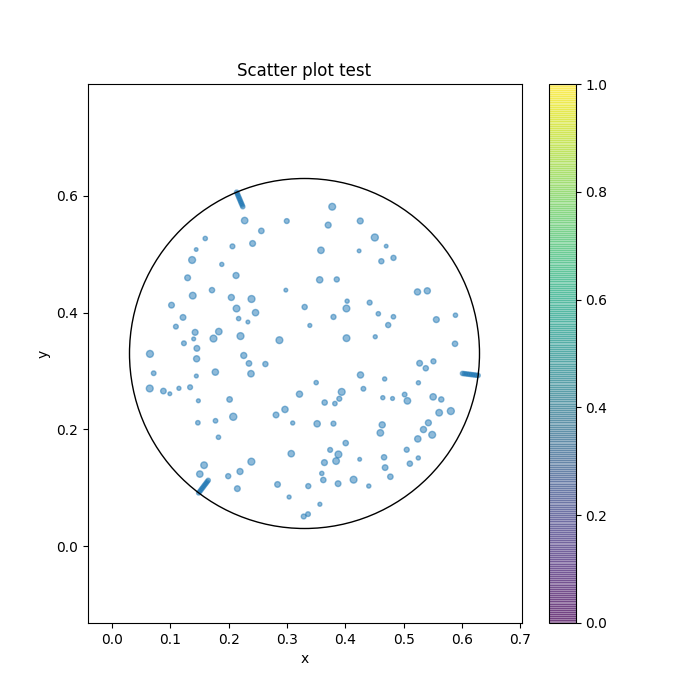
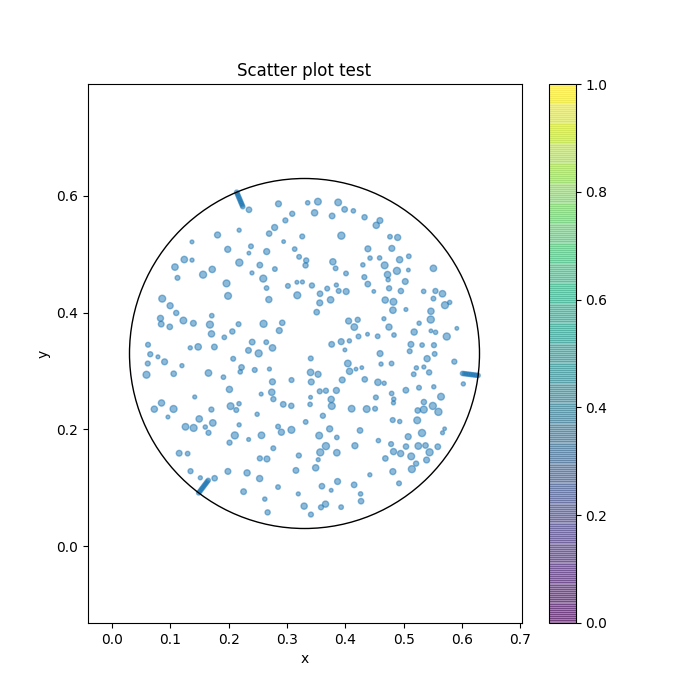
wip

Changed region(s): [[0.18, 0.3, 0.66, 0.75], [0.45, 0.27, 0.51, 0.33], [0.39, 0.27, 0.42, 0.33]]

diff --git a/visualizeDataAtFrame.py b/visualizeDataAtFrame.py
@@ -1,0 +1,55 @@
+import os.path
+import matplotlib.animation as animation
+import matplotlib.pyplot as plt
+import numpy as np
+
+types = ['float', 'float', 'float', 'float', 'float', 'float', 'float']
+domainTypes = ['float', 'float']
+
+# Set up the codec for the video file
+# writer = animation.FFMpegWriter(fps=25, metadata=dict(artist='Lucas H'), bitrate=1800)
+fig = plt.figure(figsize=(7, 7))
+
+# this counts the number of frames
+for k in range(1, 9) :
+    base_path = "./datas/"+ str(k) +"00 pi/"
+    path = base_path+"datas/"
+    num_files = len([f for f in os.listdir(path) if os.path.isfile(os.path.join(path, f))])
+    print(num_files)
+    data = []
+    totalFrames = num_files - 1
+    for i in range(0, totalFrames):
+        fileName = os.path.join(path,"grain" + str(i) + ".txt")
+        data.insert(i, np.genfromtxt(fileName,
+                                     delimiter=',',
+                                     dtype=types,
+                                     names=["ID", 'x', 'y', 'vx', 'vy', 'theta', 'radius']))
+
+    for a in range(0,8):
+        showingFrame = a* 4
+        # cmap = plt.get_cmap('jet')
+        # speed =
+        velocity = np.square(data[showingFrame]["vy"]) + np.square(data[showingFrame]["vx"]) + np.divide(
+            np.square(data[showingFrame]["theta"]), 100)
+        scat = plt.scatter(data[showingFrame]["x"], data[showingFrame]['y'], alpha=0.5,
+                           s=pow(data[0]['radius'], 2) * 60 * 10000)
+        plt.title('Frame '+str(showingFrame)+' - cohesion parameter = '+str(k)+'00')
+        # plt.gca().set_aspect('equal', adjustable='box')
+        plt.axis("equal")
+        domain = np.genfromtxt(path + "/domain.txt",
+                               delimiter=',',
+                               dtype=domainTypes,
+                               names=['x', 'y'])
+
+        plt.xlim(-0.2 * domain["x"], domain['x'] * 1.2)
+        plt.ylim(-0.2 * domain["y"], domain['y'] * 1.2)
+        plt.xlabel('x')
+        plt.ylabel('y')
+        # a_circle = plt.Circle((.3, .4), .005)
+        # plt.gca().add_artist(a_circle)
+        b_circle = plt.Circle((.33, .33), .3, fill=False)
+        plt.gca().add_artist(b_circle)
+
+        plt.savefig('exports/'+str(k)+'00_screenshot'+str(a)+'.png')
+        plt.clf()
+        plt.cla()

diff --git a/meanSpeed.py b/meanSpeed.py
@@ -1,0 +1,54 @@
+import math
+import os.path
+import matplotlib.animation as animation
+import matplotlib.pyplot as plt
+import numpy as np
+
+types = ['float', 'float', 'float', 'float', 'float', 'float', 'float']
+domainTypes = ['float', 'float']
+
+# Set up the codec for the video file
+Writer = animation.writers['ffmpeg']
+writer = Writer(fps=25, metadata=dict(artist='Lucas H'), bitrate=1800)
+fig = plt.figure(figsize=(7, 7))
+speeds = []
+standardDev = []
+
+# this counts the number of frames
+for k in range(1, 9) :
+    base_path = "./datas/"+ str(k) +"00 pi/"
+    path = base_path+"datas/"
+    num_files = len([f for f in os.listdir(path) if os.path.isfile(os.path.join(path, f))])
+    print(num_files)
+    totalFrames = num_files - 1
+    energy = []
+
+    for i in range(0, totalFrames):
+        fileName = path + "grain" + str(i) + ".txt"
+        data = np.genfromtxt(fileName,
+                             delimiter=',',
+                             dtype=types,
+                             names=["ID", 'x', 'y', 'vx', 'vy', 'omega', 'radius'])
+        velocity = 0
+        if data.size > 1:
+            for j in range(0, data.size):
+                velocity += data[j]['vx'] + data[j]['vy']
+        energy.insert(i, velocity)
+
+    name = "velocity | m = " + str(np.mean(energy)) + " sd = " +  str(np.std(energy))
+    plt.legend([name])
+    # plt.plot(kineticEnergyRot)
+    plt.savefig(base_path +'/velocity.png')
+
+    speeds.insert(k, np.mean(energy))
+    standardDev.insert(k, np.std(energy))
+    plt.clf()
+    plt.cla()
+
+plt.xlabel('x')
+plt.ylabel('y')
+# plt.plot(speeds)
+plt.plot(standardDev)
+plt.legend(["standardDev"])
+# plt.plot(kineticEnergyRot)
+plt.savefig("./exports/" +'velocities.png')

diff --git a/main.cpp b/main.cpp
@@ -28,7 +28,7 @@ int main(int argc, char **argv) {
     // dt est lié à
     auto containerCollisionSettings = new CollisionSettings(.9, .6, 1000., 1000000.);
     auto grainCollisionSettings = new CollisionSettings(.9, .6, 1000., 1000000.);
-    CohesionSettings cohesionSettings(.0005, 300.);
+    CohesionSettings cohesionSettings(.0005, 700.);
     // VIDEO OPTIONS
     int fps = 25;
     double tStartCapture = 0.;
@@ -46,7 +46,7 @@ int main(int argc, char **argv) {
     double paletteRelativeWidth = .1;
     double paletteGrainRadius = 0.004;
 
-    int numberOfGrains = 140;
+    int numberOfGrains = 300;
     int numberOfGrainsWithPalettes = numberOfGrains + (totalPalettesGrains);
     double radius = 0.005;
     double mass;

diff --git a/meanSpeedGraph.py b/meanSpeedGraph.py
@@ -1,0 +1,36 @@
+import math
+import os.path
+import matplotlib.animation as animation
+import matplotlib.pyplot as plt
+
+
+import numpy as np
+speeds = []
+
+standardDev =[]
+
+speeds.insert(100,214)
+speeds.insert(200,2)
+speeds.insert(300,2)
+speeds.insert(400,2)
+speeds.insert(500,2)
+speeds.insert(600,2)
+speeds.insert(700,2)
+speeds.insert(800,2)
+
+standardDev.insert(100,56)
+standardDev.insert(200,2)
+standardDev.insert(300,2)
+standardDev.insert(400,2)
+standardDev.insert(500,2)
+standardDev.insert(600,2)
+standardDev.insert(700,2)
+standardDev.insert(800,2)
+plt.xlabel('x')
+plt.ylabel('y')
+plt.plot(speeds)
+plt.legend(['speeds'])
+# plt.plot(kineticEnergyRot)
+
+
+plt.savefig('exports/speeds.png')
